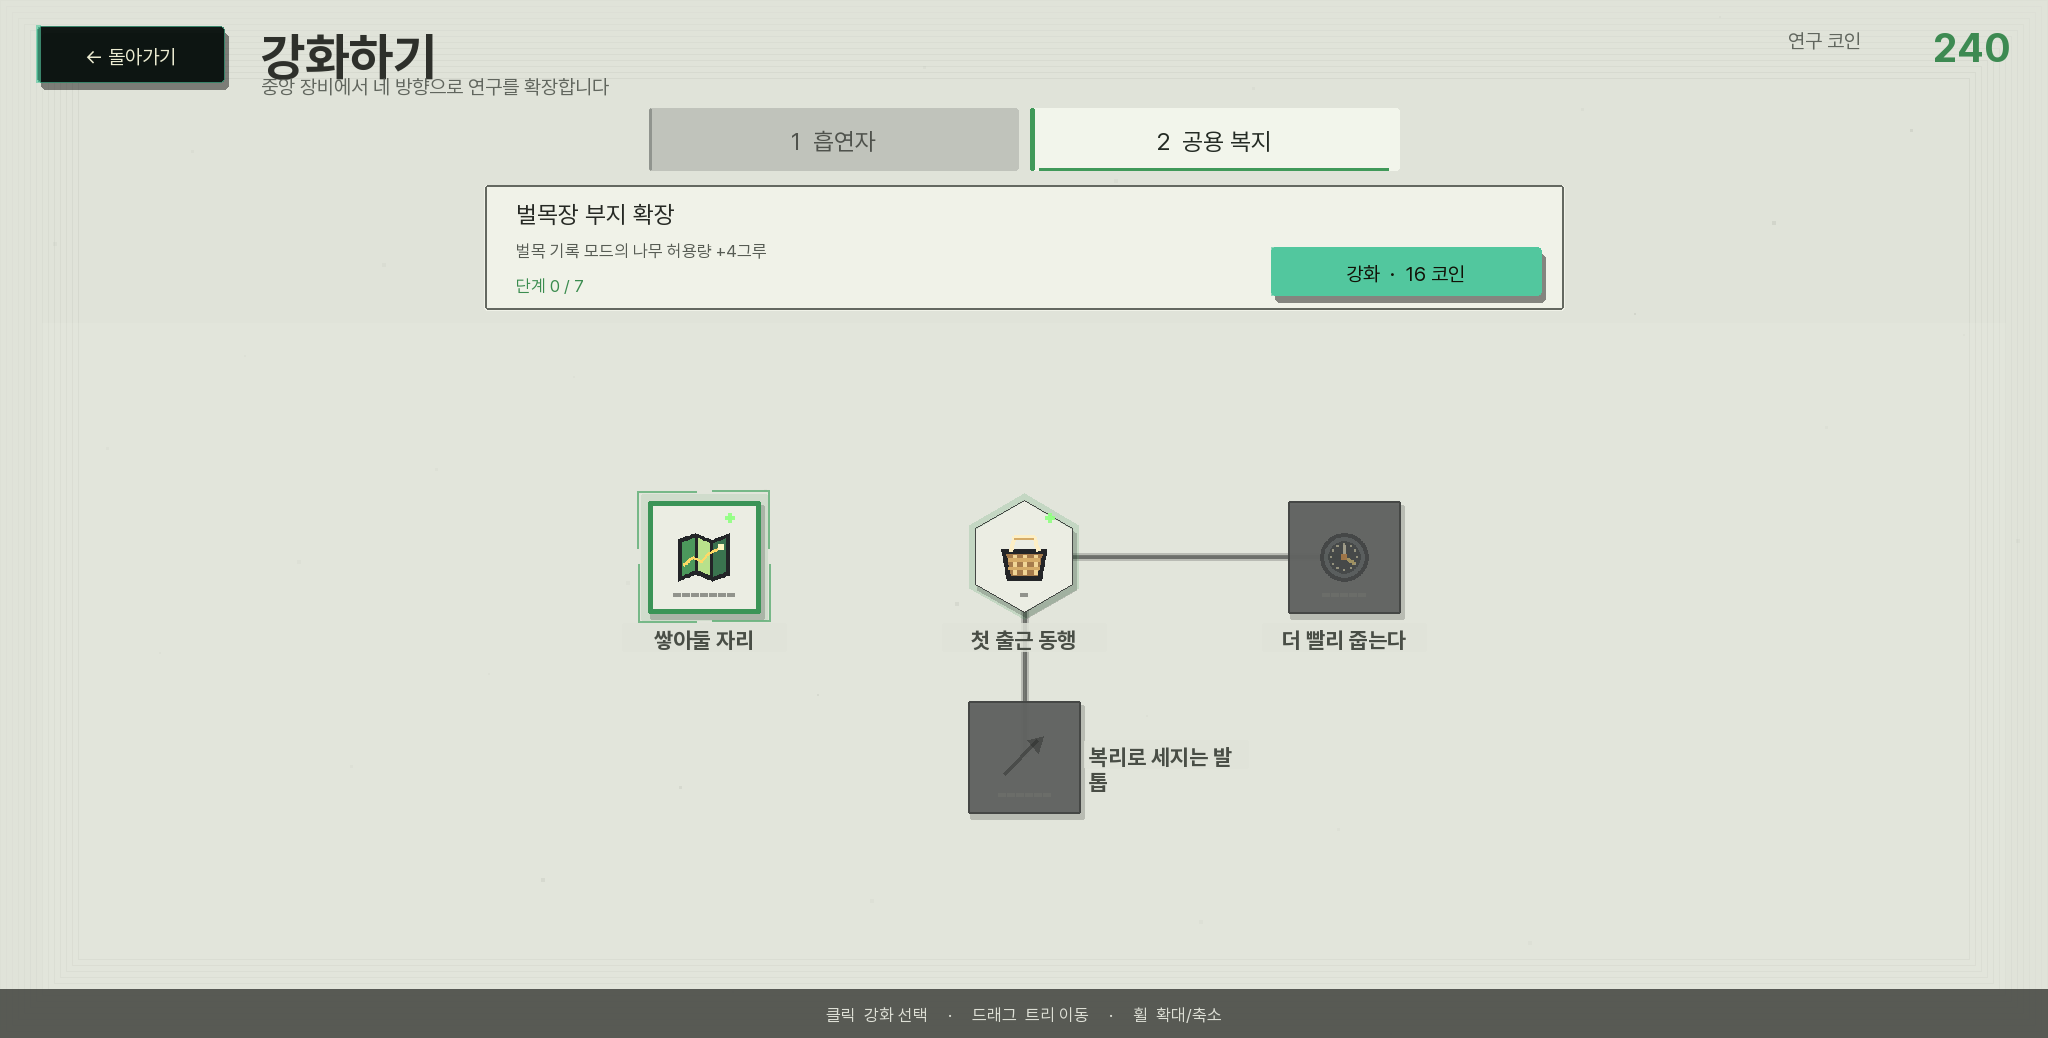
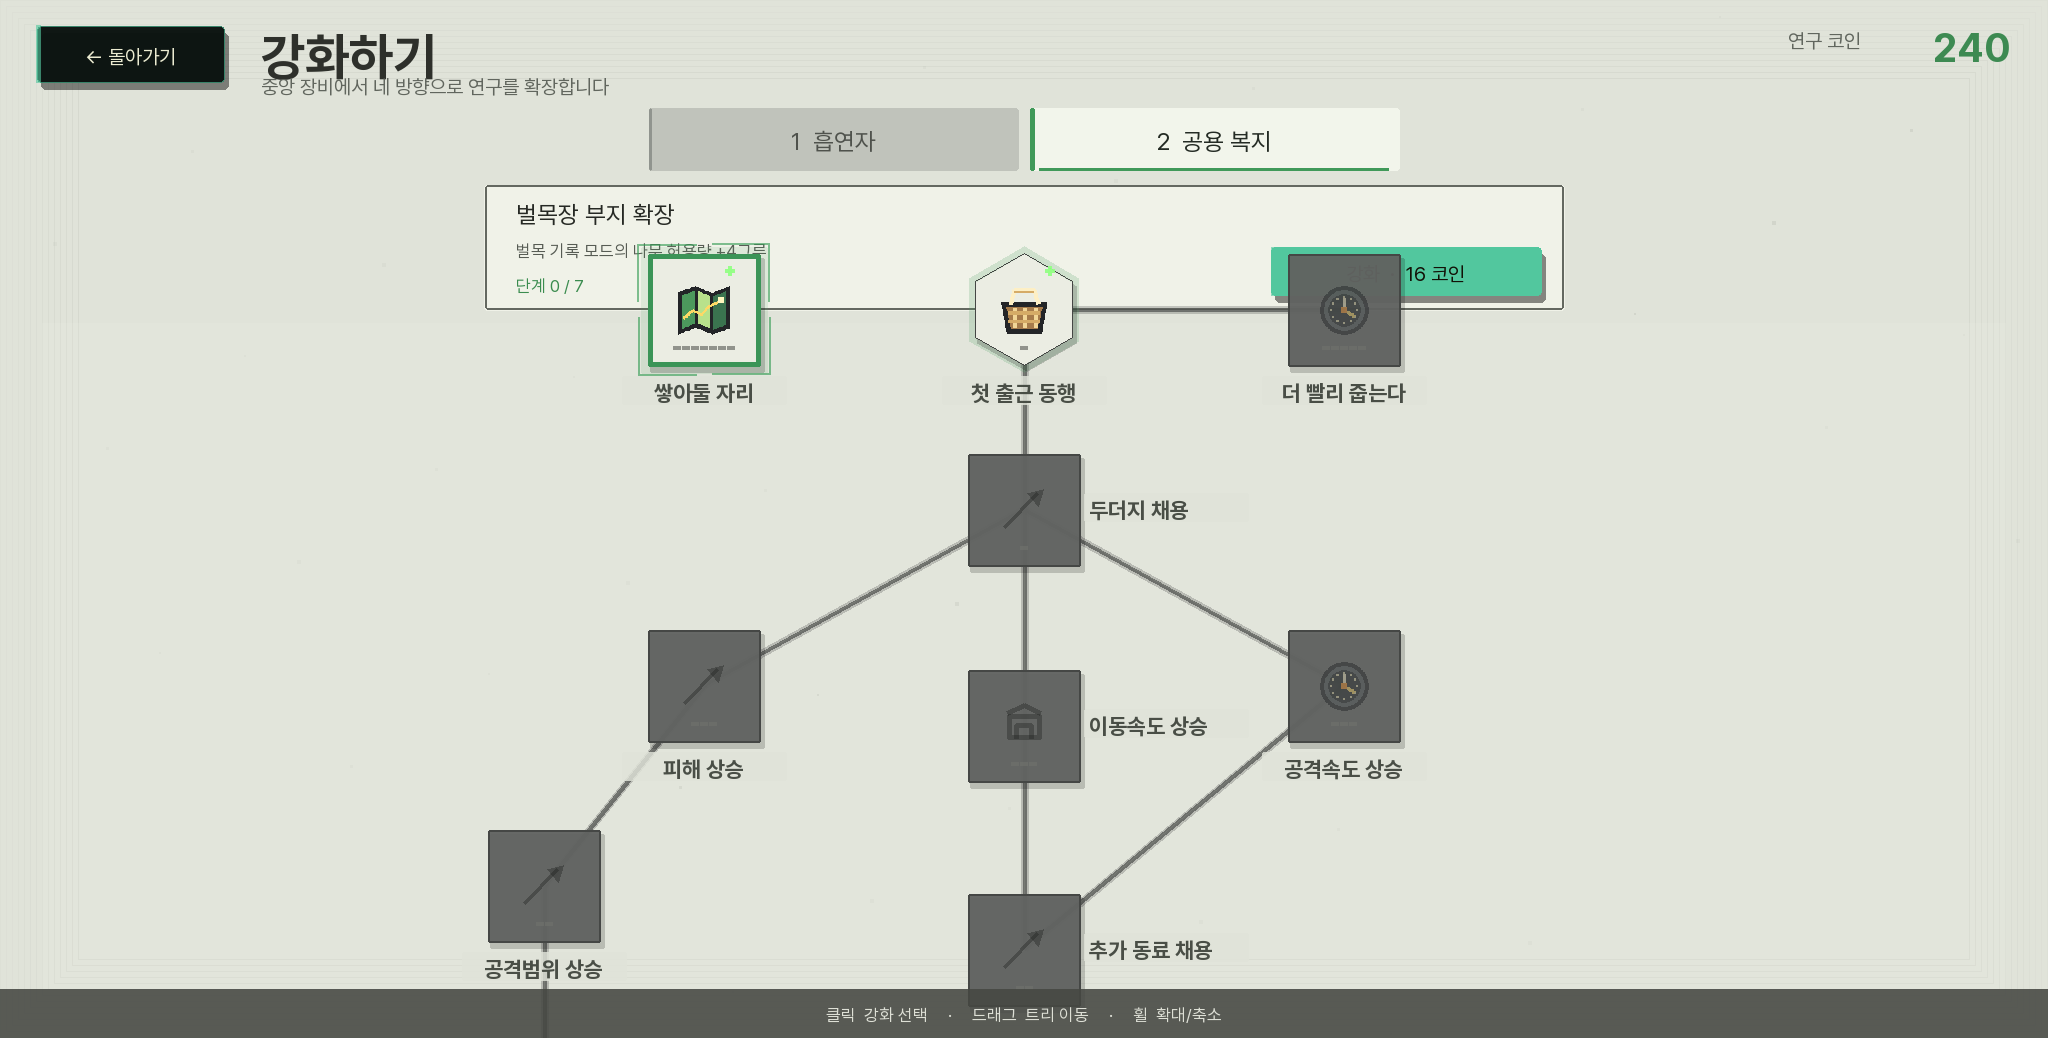
feat: split mole companion into research branches

diff --git a/docs/character_dossier.html b/docs/character_dossier.html
@@ -695,7 +695,13 @@ const TRAITS = {
       {id:"universal_yard",name:"벌목장 부지 확장",short:"쌓아둘 자리",desc:"벌목 기록 모드의 나무 허용량 +4그루",max:7,costs:[16,26,40,58,80,108,142]},
       {id:"universal_robot_start",name:"아기 로봇 기본 지급",short:"첫 출근 동행",desc:"벌목 기록 모드를 아기 운반 로봇 Lv.1로 시작",max:1,costs:[42]},
       {id:"universal_robot_motor",name:"아기 로봇 고속 모터",short:"더 빨리 줍는다",desc:"아기 운반 로봇 이동속도 +10%",max:5,costs:[22,38,58,82,112],requires:[["universal_robot_start",1]]},
-      {id:"universal_mole_companion",name:"두더지 작업반 채용",short:"복리로 세지는 발톱",desc:"1단계에 두더지 동료가 합류합니다. 이후 단계마다 발톱 피해 +1, 이동속도 +8%, 공격속도 +10%가 적용되며 3/5단계에는 발톱 자국이 커지고 6단계에는 양손으로 할큅니다.",max:6,costs:[78,32,48,68,92,124],requires:[["universal_robot_start",1]]},
+      {id:"universal_mole_companion",name:"두더지 동료 채용",short:"두더지 채용",desc:"벌목 기록 모드에 두더지 동료 1마리가 합류합니다.",max:1,costs:[78],requires:[["universal_robot_start",1]]},
+      {id:"universal_mole_damage",name:"두더지 피해 상승",short:"피해 상승",desc:"두더지 발톱 피해가 단계마다 1 증가합니다.",max:3,costs:[30,48,72],requires:[["universal_mole_companion",1]]},
+      {id:"universal_mole_speed",name:"두더지 이동속도 상승",short:"이동속도 상승",desc:"두더지 이동속도가 단계마다 10% 증가합니다.",max:3,costs:[26,44,66],requires:[["universal_mole_companion",1]]},
+      {id:"universal_mole_attack_speed",name:"두더지 공격속도 상승",short:"공격속도 상승",desc:"두더지 공격속도가 단계마다 12% 증가합니다.",max:3,costs:[32,52,78],requires:[["universal_mole_companion",1]]},
+      {id:"universal_mole_claw",name:"두더지 공격범위 상승",short:"공격범위 상승",desc:"두더지의 공격 가능 거리와 발톱 자국 크기가 단계마다 증가합니다.",max:2,costs:[56,92],requires:[["universal_mole_damage",2]]},
+      {id:"universal_mole_dual",name:"두더지 양손 공격",short:"양손 공격",desc:"두더지가 한 번의 공격에 양손 발톱 자국을 남깁니다.",max:1,costs:[125],requires:[["universal_mole_claw",2]]},
+      {id:"universal_mole_extra",name:"두더지 추가 채용",short:"추가 동료 채용",desc:"단계마다 두더지 동료 1마리가 추가로 합류합니다.",max:2,costs:[110,180],requires:[["universal_mole_speed",2],["universal_mole_attack_speed",2]]},
     ]
   }
 };
@@ -1011,7 +1017,7 @@ function renderAll() {
   document.getElementById("masthead-stamp").textContent = MODE_META[mode].stamp;
   document.getElementById("footer").textContent = mode === "traits"
     ? "src/character_traits.lua 기준 · 노드 순서는 선행 조건 깊이(단계) 순"
-    : "src/clearcut_mode.lua + score_operations.lua + character_traits.lua 기준 · 현재 로비는 흡연자 벌목 기록 모드만 활성화 · 저장된 재생 단계에서 6그루로 시작하고 0그루 달성 시 0.86초 전투 정지·잎/프리즘 단계 상승 FX·6그루 순차 발아 후 다음 단계가 영구 해금 · 재생 속도 0.14×1.75^(단계-1)×2^(플레이 시간/60초), HP 1.03^(단계-1) 정수 반올림으로 체력보다 재생 물량이 난도를 주도하며 같은 단계 무한 유지를 차단 · 허용량 60% 이상에서 최근 5초 벌목량이 자연 재생보다 낮은 상태가 5초 지속되면 별도 HUD 문구 없이 내부 재생이 가속되어 약한 런을 빠르게 종료 · 첫 강화는 목재 5, 이후 8·11 순서이며 운영 6종과 공격속도·추가 꽁초·착화 범위·연소속도 상승 4종을 선택 · 공용 특성 두더지 작업반 채용은 플레이어를 따라오지 않고 가까운 활성 나무를 찾아 접촉 프레임마다 직접 할퀴는 두더지 동료를 런 시작부터 소환 · 강화하기 화면은 밝은 회백색 작업면 위 중앙 루트에서 상·하·좌·우 네 갈래로 뻗으며 선택한 노드의 이름·효과·단계·비용을 상단 한 곳에 표시하고 미니맵·숲 배경·중복 설명을 두지 않음 · 결과 화면은 생존 기록·핵심 통계 3개·연구 코인·강화하기/재도전 순서로 표시 · 로비 영구 성장은 스킬 레벨을 지급하지 않고 투척 거리·착화 반경·착화/확산 확률·흡연/비행/연소 속도·추가 꽁초 특성으로 분리 · 일반 작전·공용 전투 스킬·융합·시너지 코드는 삭제 없이 비활성 보존";
+    : "src/clearcut_mode.lua + score_operations.lua + character_traits.lua 기준 · 현재 로비는 흡연자 벌목 기록 모드만 활성화 · 저장된 재생 단계에서 6그루로 시작하고 0그루 달성 시 0.86초 전투 정지·잎/프리즘 단계 상승 FX·6그루 순차 발아 후 다음 단계가 영구 해금 · 재생 속도 0.14×1.75^(단계-1)×2^(플레이 시간/60초), HP 1.03^(단계-1) 정수 반올림으로 체력보다 재생 물량이 난도를 주도하며 같은 단계 무한 유지를 차단 · 허용량 60% 이상에서 최근 5초 벌목량이 자연 재생보다 낮은 상태가 5초 지속되면 별도 HUD 문구 없이 내부 재생이 가속되어 약한 런을 빠르게 종료 · 첫 강화는 목재 5, 이후 8·11 순서이며 운영 6종과 공격속도·추가 꽁초·착화 범위·연소속도 상승 4종을 선택 · 두더지 영구 연구는 동료 채용 루트에서 피해·이동속도·공격속도·발톱 범위·양손 공격·추가 동료 채용의 독립 노드로 갈라지고 최대 3마리를 실제 투입 · 강화하기 화면은 밝은 회백색 작업면 위 중앙 루트에서 여러 갈래로 뻗으며 선택한 노드의 이름·효과·단계·비용을 상단 한 곳에 표시하고 미니맵·숲 배경·중복 설명을 두지 않음 · 결과 화면은 생존 기록·핵심 통계 3개·연구 코인·강화하기/재도전 순서로 표시 · 로비 영구 성장은 스킬 레벨을 지급하지 않고 투척 거리·착화 반경·착화/확산 확률·흡연/비행/연소 속도·추가 꽁초 특성으로 분리 · 일반 작전·공용 전투 스킬·융합·시너지 코드는 삭제 없이 비활성 보존";
   buildModeSwitch();
   buildTabs();
   renderPanel(document.getElementById("search").value);

diff --git a/scripts/render_score_trait_board.py b/scripts/render_score_trait_board.py
@@ -8,8 +8,10 @@ OUT=ROOT/'docs/previews'
 run(ROOT/'scripts/capture_score_trait_board.lua')
 image=render_ui(OUT/'score-trait-board-draws.json',(1280,720))
 image.save(OUT/'score-trait-board-v1.png')
+universal_actual=render_ui(OUT/'score-trait-board-universal-draws.json',(1280,720))
+universal_actual.save(OUT/'score-trait-board-universal-v2.png')
 wide=render_ui(OUT/'score-trait-board-wide-draws.json',(2048,1038))
 wide.save(OUT/'score-trait-board-wide-v2.png')
 universal=render_ui(OUT/'score-trait-board-universal-wide-draws.json',(2048,1038))
 universal.save(OUT/'score-trait-board-universal-wide-v1.png')
-print('SCORE_TRAIT_BOARD_RENDER_OK 1280x720+2048x1038 universal=2048x1038 window=none')
+print('SCORE_TRAIT_BOARD_RENDER_OK 1280x720+2048x1038 universal=1280x720+2048x1038 window=none')

diff --git a/scripts/render_mole_companion_preview.py b/scripts/render_mole_companion_preview.py
@@ -11,7 +11,7 @@ OUT.mkdir(parents=True,exist_ok=True)
 os.environ['MOLE_COMPANION_CAPTURE']=str(CAPTURE)
 run(ROOT/'scripts/capture_mole_companion.lua')
 image=render_ui(CAPTURE,(520,360))
-image.save(OUT/'mole-companion-v1-display-scale.png')
-image.crop((100,150,390,330)).resize((870,540)).save(OUT/'mole-companion-v1-3x.png')
+image.save(OUT/'mole-companion-team-v2-display-scale.png')
+image.crop((55,145,420,355)).resize((1095,630)).save(OUT/'mole-companion-team-v2-3x.png')
 CAPTURE.unlink()
-print('MOLE_COMPANION_PREVIEW_OK window=none actual=520x360 zoom=3x')
+print('MOLE_COMPANION_TEAM_PREVIEW_OK window=none actual=520x360 zoom=3x')

diff --git a/docs/SMOKER_SCORE_ATTACK_MODE.md b/docs/SMOKER_SCORE_ATTACK_MODE.md
@@ -81,7 +81,7 @@ HP 계산은 정수 반올림을 사용한다. 따라서 낮은 단계에서는 
 
 꽁초의 바닥 잔류와 확률 확산 규칙은 그대로 유지한다. 착지 순간에는 10프레임 전용 픽셀 아틀라스로 백열점·불티·재 파편을 보여 주고, 불씨가 나무에 도착하면 별도의 10프레임 밑동 착화 아틀라스와 짧은 나무 흔들림을 재생한다. 착지와 착화는 서로 다른 짧은 효과음을 사용한다. 이 반응은 카메라 트라우마를 추가하지 않아 2.5D 화면 전체를 흔들지 않는다.
 
-공용 `벌목장 부지 확장`, 아기 로봇 기본 지급과 고속 모터도 기존대로 적용한다. `두더지 작업반 채용` 1단계를 해금하면 기존 고밀도 두더지 스프라이트의 작은 동료가 런 시작부터 맵 전체의 가장 가까운 활성 나무를 찾아 이동하고 전용 손톱 접촉 프레임에 2피해를 주어 혼자 벌목한다. 2~6단계는 단계마다 피해 +1, 이동속도 +8%, 공격속도 +10%를 더하며 3/5단계에는 손톱 자국 티어가 커지고 6단계에는 하나의 양손 할퀴기 이펙트가 재생된다. 나무가 쓰러지거나 발아 중이면 즉시 다른 완성된 나무를 다시 찾으며 플레이어를 따라다니지 않는다. 이전 일반 작전 특성과 구매 기록은 저장 파일에 보존한다.
+공용 `벌목장 부지 확장`, 아기 로봇 기본 지급과 고속 모터도 기존대로 적용한다. 두더지는 하나의 반복 노드가 아니라 별도 연구 갈래를 사용한다. `두더지 동료 채용`을 루트로 피해 상승 3단계, 이동속도 상승 3단계, 공격속도 상승 3단계, 공격범위 상승 2단계, 양손 공격 1단계, 추가 동료 채용 2단계가 서로 다른 노드로 이어진다. 추가 채용을 모두 해금하면 최대 3마리가 서로 다른 가까운 나무를 우선 선택해 독립적으로 이동하고 공격한다. 이전 6단계 단일 노드 저장은 새 갈래에 자동 분배한다.
 
 ## 표시와 결과
 
